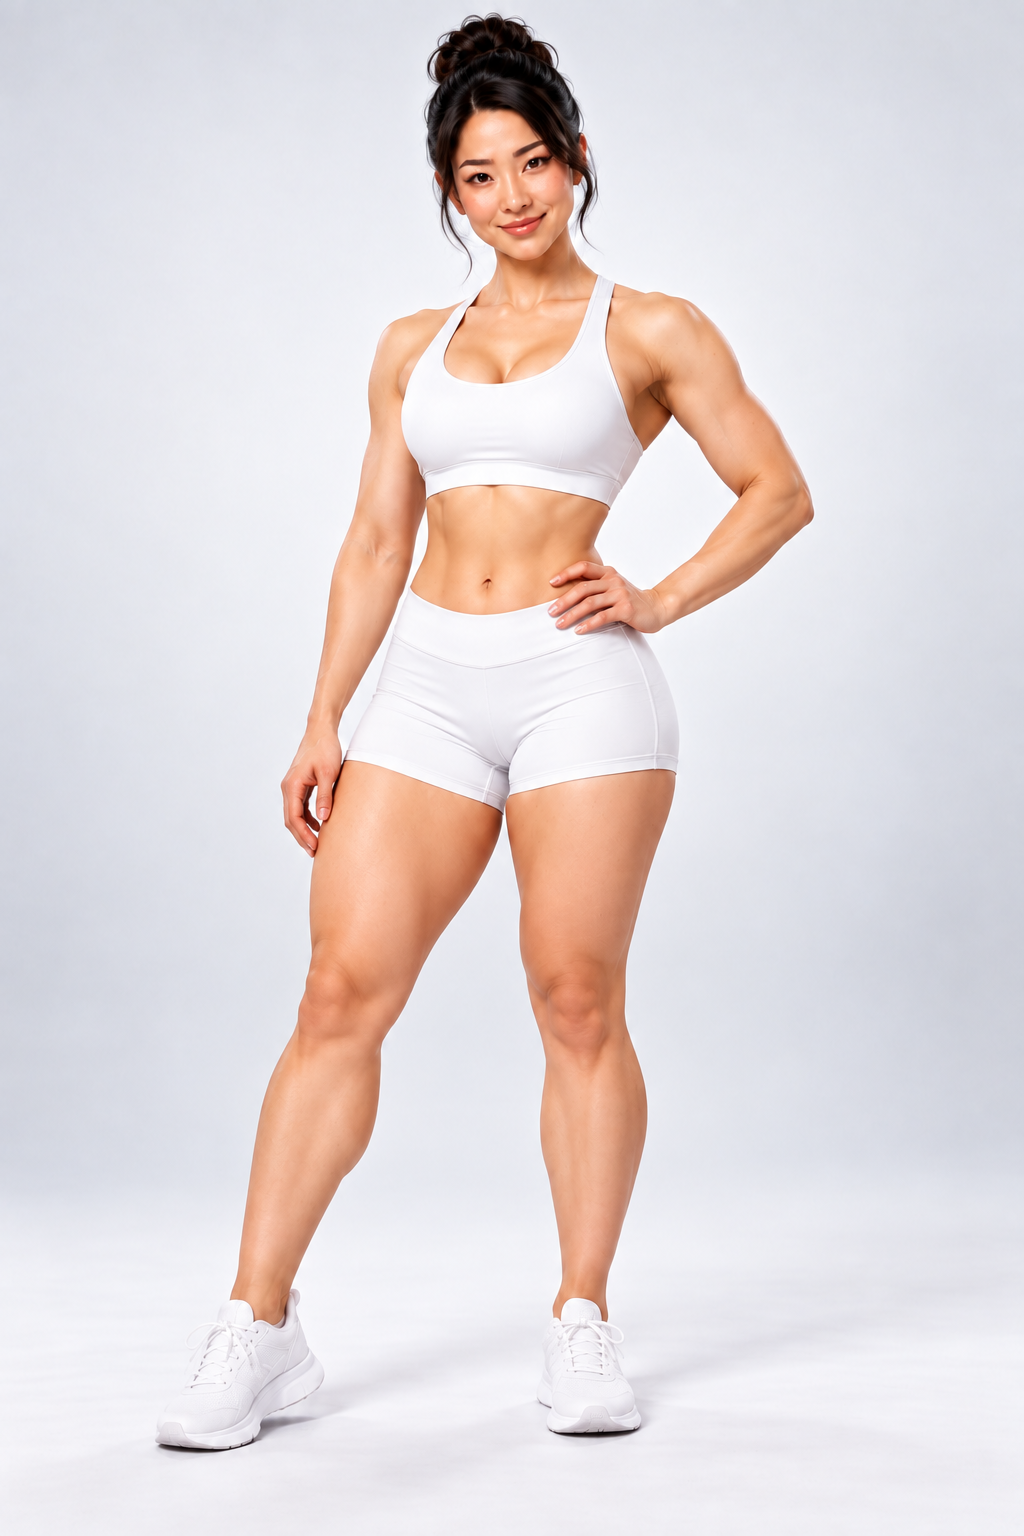
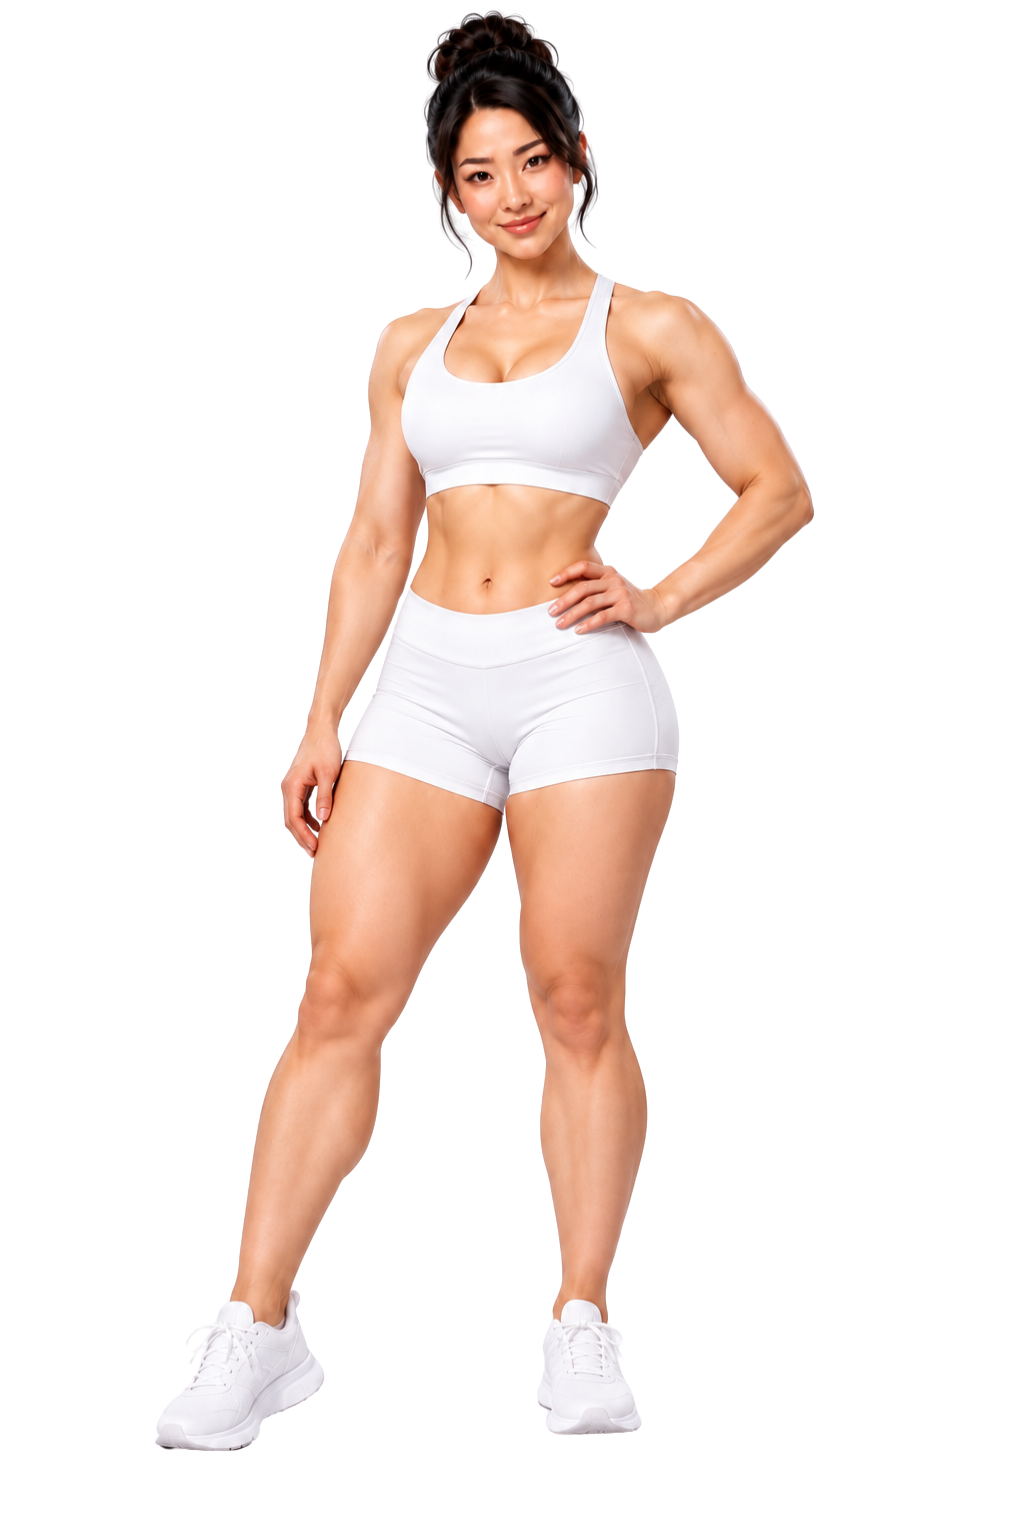
Standardize desiredBody/bodyType card geometry, add curves photo
- Replace desired-4.png (curves option) with the missing reference photo
- Rebuild the imageGrid card markup with a fixed-aspect image wrapper
  (object-fit: contain, object-position: center, overflow hidden) and a
  min-height label row, so every card in a grid shares identical width,
  height, border-radius, border and image-area geometry regardless of
  each source photo's own aspect ratio or the option label's length

diff --git a/src/components/quiz/screens/ChoiceScreen.tsx b/src/components/quiz/screens/ChoiceScreen.tsx
@@ -166,17 +166,27 @@ export function ChoiceScreen({
                 animate={{ opacity: 1, y: 0 }}
                 transition={{ duration: 0.35, delay: i * 0.05 }}
                 whileTap={{ scale: 0.985 }}
-                className="overflow-hidden rounded-2xl border-2 text-left transition-colors"
+                className="flex flex-col overflow-hidden rounded-2xl border-2 text-left transition-colors"
                 style={{ borderColor: isSel ? "var(--color-pink)" : "var(--color-pink-wash-border)" }}
               >
+                {/* Fixed-geometry image slot: every card gets the identical box regardless of
+                    the source file's own aspect ratio or internal transparent padding — the
+                    card controls the frame, the image is just centered/contained inside it. */}
                 {opt.image && (
-                  <ImagePlaceholder
-                    slot={{ key: opt.image.key, alt: opt.image.alt, src: opt.image.src, variant: "side" }}
-                    className="rounded-none border-0"
-                  />
+                  <div className="relative aspect-[3/4] w-full shrink-0 overflow-hidden bg-[#faf6f8]">
+                    {opt.image.src && (
+                      <Image
+                        src={opt.image.src}
+                        alt={opt.image.alt}
+                        fill
+                        style={{ objectFit: "contain", objectPosition: "center" }}
+                        sizes="(max-width: 520px) 45vw, 220px"
+                      />
+                    )}
+                  </div>
                 )}
                 <div
-                  className="flex items-center justify-between gap-1 px-2.5 py-2.5"
+                  className="flex min-h-[52px] flex-1 items-center justify-between gap-1 px-2.5 py-2.5"
                   style={{ background: isSel ? "var(--color-pink-mist)" : "var(--color-pink-wash)" }}
                 >
                   <span className={`text-[12.5px] font-bold leading-tight ${isSel ? "text-pink-strong" : "text-text"}`}>{opt.label}</span>
